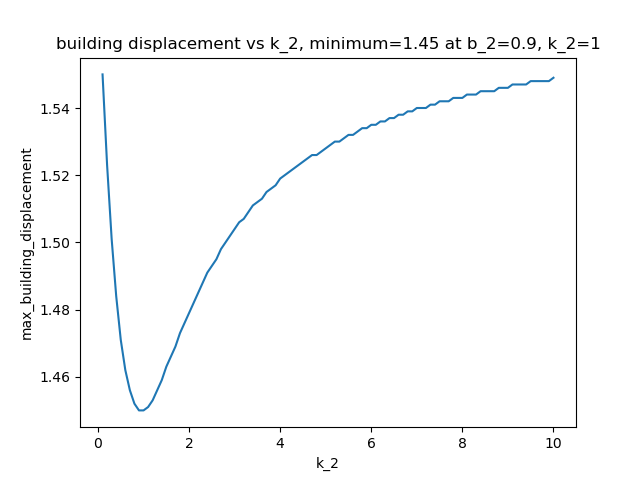
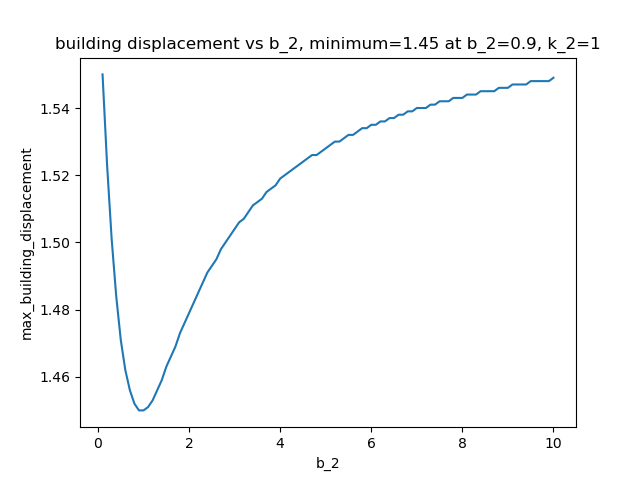
commit

diff --git a/coupled_harmonic_system_enumerate_b_2.py b/coupled_harmonic_system_enumerate_b_2.py
@@ -26,8 +26,8 @@ for b_2 in b_2_list:
     building_displacements.append(round(np.amax(asol[:, 0]), 3))
 print(building_displacements)
 print(min(building_displacements))
-plt.title(f'building displacement vs k_2, minimum={min(building_displacements)} at b_2={b_2_list[building_displacements.index(min(building_displacements))]}, k_2=1')
-plt.xlabel('k_2')
+plt.title(f'building displacement vs b_2, minimum={min(building_displacements)} at b_2={b_2_list[building_displacements.index(min(building_displacements))]}, k_2=1')
+plt.xlabel('b_2')
 plt.ylabel('max_building_displacement')
 plt.plot(b_2_list, building_displacements)
 plt.show()

diff --git a/coupled_harmonic_system.py b/coupled_harmonic_system.py
@@ -4,8 +4,8 @@ import matplotlib.pyplot as plt
 
 b_1 = 1
 k_1 = 2
-b_2 = 1
-k_2 = 1
+b_2 = 0.9
+k_2 = 3.2
 m_2 = 0.5
 initial = [0, 4, 0, 0]
 
